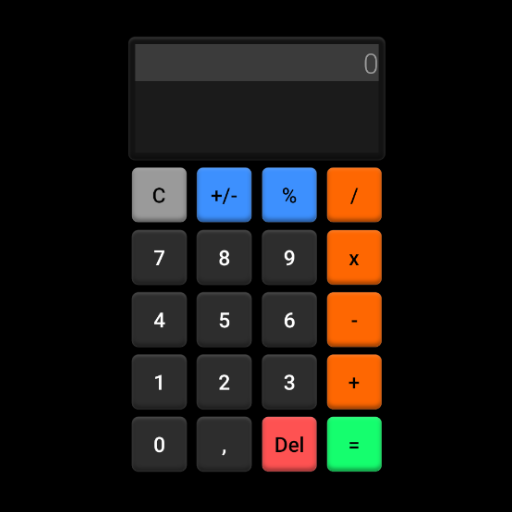
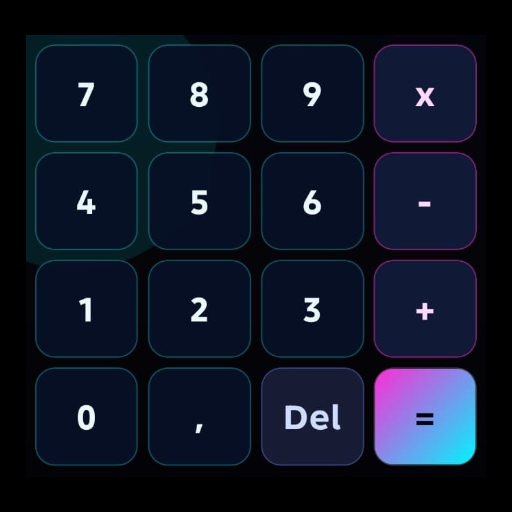
2.0.1 - Cambio del diseño a un estilo parecido a Cyberpunk

diff --git a/README.md b/README.md
@@ -2,6 +2,12 @@
 
 Aplicacion de calculadora movil desarrollada con React Native CLI + TypeScript.
 
+## Capturas de pantalla
+
+![Pantalla principal](src/assets/screenshot/imagenAPK.jpeg)
+
+![Pantalla adicional](src/assets/screenshot/imagenCalculadora.jpeg)
+
 ## Estado actual
 
 - UI redisenada en estilo cyberpunk (neon magenta/cian).
